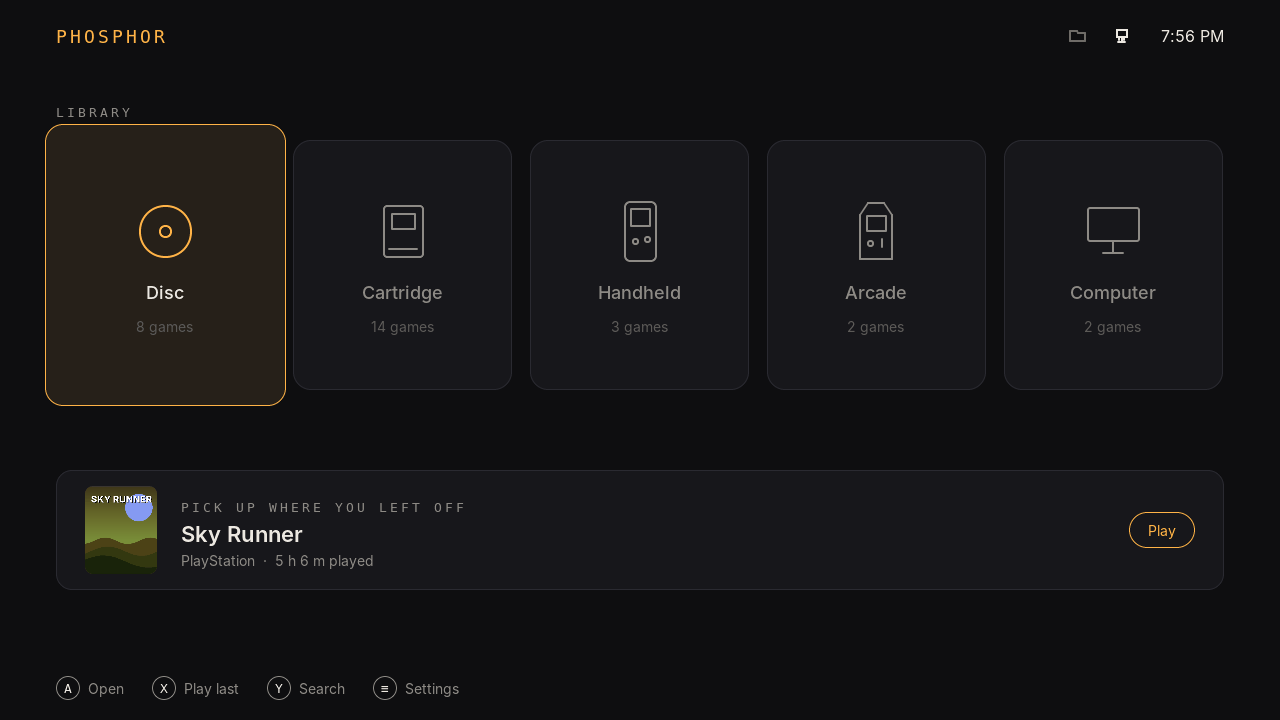
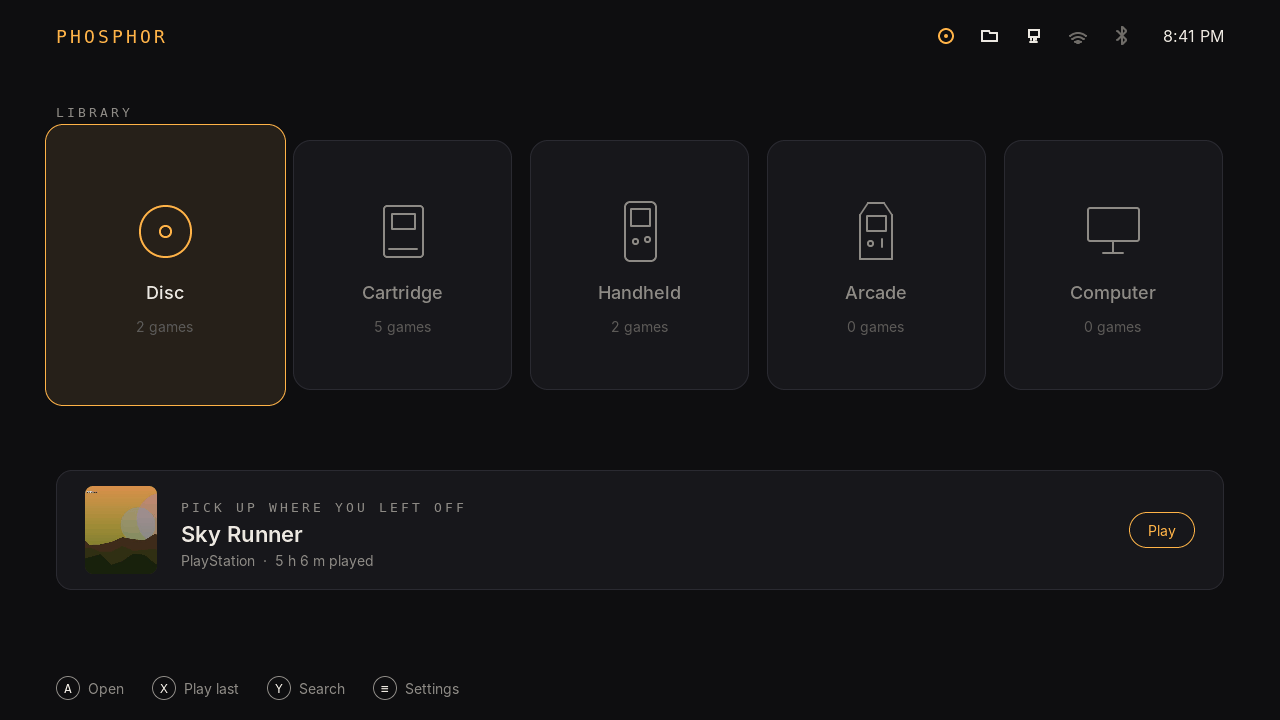
Discs, the music player, Steam soundtracks and RetroAchievements on the page, with new pictures; the home screen shows the Music tile and a disc in the drive
Claude-Session: https://claude.ai/code/session_01VLHabFJYs6ZU2WP3HXjTGE

Changed region(s): [[0.7188, 0.0306, 0.9375, 0.0611], [0.0625, 0.6722, 0.125, 0.7944], [0.2812, 0.4278, 0.3438, 0.4583]]

diff --git a/index.html b/index.html
@@ -218,14 +218,14 @@ footer p { margin: 0; max-width: 40rem; }
 		<p class="lede">Phosphor is unofficial custom firmware for the <strong>SuperStation One</strong>, built on <strong>mainline MiSTer and its Linux</strong>. Pick up a controller and your games are there with box art, ready to play. Memory cards, Bluetooth, WiFi and saves are a few button presses away, on the TV or from your PC.</p>
 		<p class="cta"><a class="go" href="#download">Download the beta</a><span>0.27.38 · SD card image, update and Windows app</span></p>
 		<div class="tv">
-			<div class="screen"><img src="img/tv-home.png" width="1280" height="720" alt="Phosphor's home screen: the library by kind of system (Disc, Cartridge, Handheld, Arcade, Computer) and the last game played"></div>
+			<div class="screen"><img src="img/tv-home.png" width="1280" height="720" alt="Phosphor's home screen: the library by kind of system (Disc, Cartridge, Handheld, Arcade, Computer, Music) and the last game played, with a disc in the drive shown in the status bar"></div>
 		</div>
 	</div>
 
 	<section id="tour">
 		<div class="wrap">
 			<h2>Everything from the couch</h2>
-			<p class="intro">These are real screens, drawn by Phosphor's own code at 1280 by 720 (on a 1080p TV it draws every pixel at 1080p), and two from Phosphor for Windows. The games and box art are made up for the pictures.</p>
+			<p class="intro">These are real screens, drawn by Phosphor's own code at 1280 by 720 (on a 1080p TV it draws every pixel at 1080p), and three from Phosphor for Windows. The games, albums, box art and account are made up for the pictures.</p>
 
 			<div class="feature">
 				<div class="shot"><img src="img/tv-games.png" width="1280" height="720" loading="lazy" alt="A system's games: the list, and the highlighted game's box art, year, developer, players, genre and description"></div>
@@ -233,6 +233,42 @@ footer p { margin: 0; max-width: 40rem; }
 					<h3>Your library, found for you</h3>
 					<p>Phosphor finds the games on the SD card, a USB drive, NVMe or a network share, works out what each one is, and fetches box art and details from sources you choose.</p>
 					<p>Hacks and translations can point at the game they're based on and share its art.</p>
+				</div>
+			</div>
+
+			<div class="feature flip">
+				<div class="shot"><img src="img/tv-disc.png" width="1280" height="720" loading="lazy" alt="Library, Disc: the disc in the dock's drive at the top as In the drive, with its name, disc code and box art"></div>
+				<div>
+					<h3>Discs from the dock's drive</h3>
+					<p>Put a PlayStation, Saturn, Mega-CD, PC Engine CD, Neo Geo CD, CD-i or 3DO disc in the dock's drive and it's at the top of <b>Library › Disc</b>, with its name and box art. Press A to play it. Nothing starts by itself.</p>
+					<p>In a game, tap the menu button for Phosphor's in-game menu: back to the game, change disc, the achievements, MiSTer's menu, or quit. Disc support is by Anime0t4ku and bonna79.</p>
+				</div>
+			</div>
+
+			<div class="feature">
+				<div class="shot"><img src="img/tv-music.png" width="1280" height="720" loading="lazy" alt="Music: the albums, from Steam and copied CDs, with the highlighted album's cover and tracks"></div>
+				<div>
+					<h3>A music player, on the TV</h3>
+					<p>Your albums from a Music folder, and music CDs straight from the dock's drive, with track names from MusicBrainz and covers from the Cover Art Archive. Copy a CD to FLAC with one button if you like.</p>
+					<p>It plays only while no game is running. Control it from the controller, the TV remote, your phone or your PC.</p>
+				</div>
+			</div>
+
+			<div class="feature flip">
+				<div class="shot"><img src="img/win-steam.png" width="1440" height="900" loading="lazy" alt="Phosphor for Windows, Music: the Steam soundtracks installed on the PC, two already on the SuperStation and one being sent"></div>
+				<div>
+					<h3>Steam soundtracks, sent from your PC</h3>
+					<p>Phosphor for Windows lists the soundtracks Steam has installed on your PC. Tick the ones you want and they're copied to the SuperStation's Music over your home network, in FLAC when Steam has it.</p>
+					<p>Nothing signs in to Steam or changes anything there, and once they're sent they play without the PC.</p>
+				</div>
+			</div>
+
+			<div class="feature">
+				<div class="shot"><img src="img/tv-retroachievements.png" width="1280" height="720" loading="lazy" alt="Settings, RetroAchievements: the account, hardcore, pop-ups, unlock sound, the cores, the Web API key, matching the library and your progress"></div>
+				<div>
+					<h3>RetroAchievements</h3>
+					<p>Earn achievements in NES, SNES, Game Boy, GBA, N64, PlayStation, Mega Drive, Mega-CD, Master System, Game Gear, PC Engine and Atari 7800 games. Log in once on the TV: only a login token is kept, never your password.</p>
+					<p>Hardcore, pop-ups and the unlock sound are a press away, game pages show how many you've earned, and the in-game menu lists them. Built on odelot's MiSTer RetroAchievements work and the RetroAchievements team's rcheevos.</p>
 				</div>
 			</div>
 
@@ -311,7 +347,7 @@ footer p { margin: 0; max-width: 40rem; }
 				<div>
 					<h3>Phosphor for Windows</h3>
 					<p>The same library on your PC, paired with a code from the TV. Box art and details are looked up on the PC, which is much faster, then sent to the SuperStation.</p>
-					<p>Edit details, start a game on the TV, manage memory cards, controllers, drives, network, video filters and MiSTer.ini, and flash or test an SD card. Everything stays on your home network.</p>
+					<p>Edit details, start a game on the TV, control the music player and send Steam soundtracks, follow your RetroAchievements, manage memory cards, controllers, drives, network, video settings and MiSTer.ini, and flash or test an SD card. Everything stays on your home network.</p>
 				</div>
 			</div>
 		</div>
